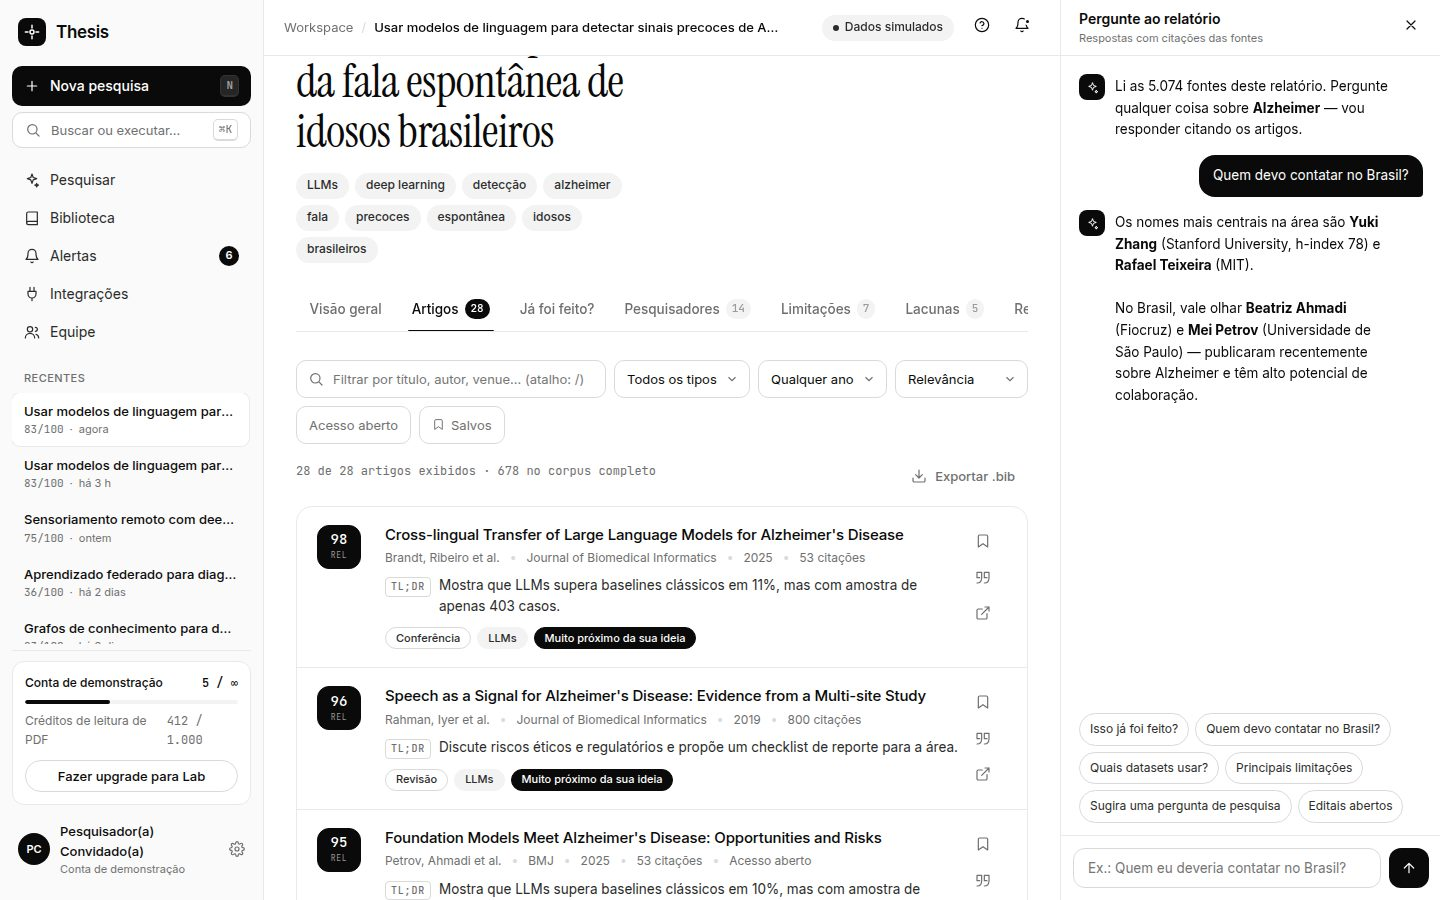
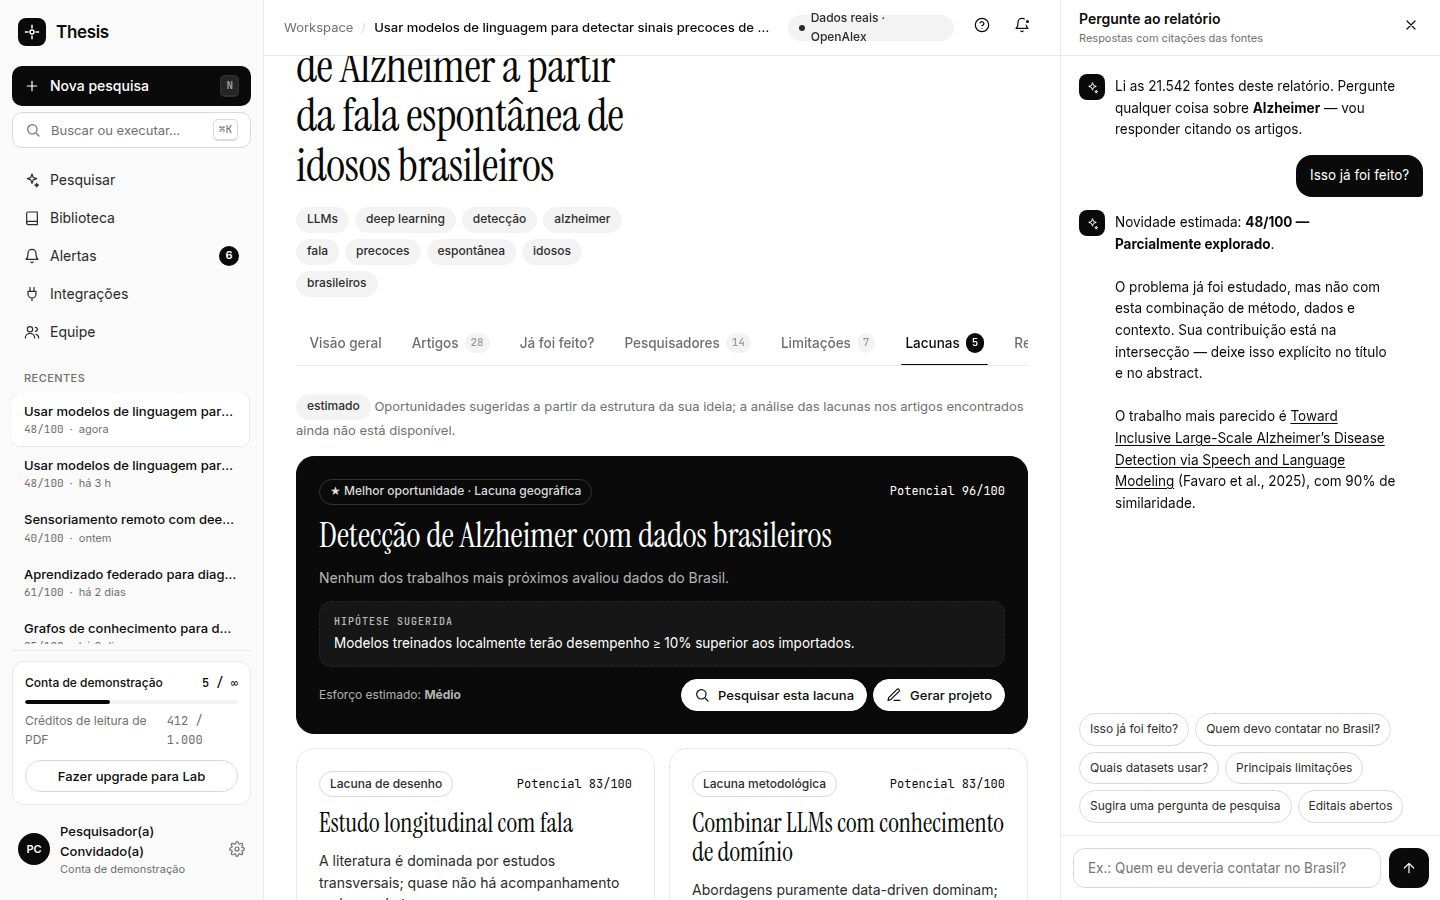
Atualiza a página: dados reais do OpenAlex e novas capturas

diff --git a/index.html b/index.html
@@ -268,12 +268,12 @@
     <p class="lead reveal">Telas reais da plataforma funcionando. Clique em cada seção para ver — e na imagem para ampliar.</p>
     <div class="gallery">
       <div class="g-tabs" id="gTabs" role="tablist">
-        <button class="g-tab on" role="tab" data-img="report" data-cap="Score de novidade de 0 a 100, indicadores da área e uma síntese da IA com citações numeradas e clicáveis."><strong>Visão geral</strong><span>Veredito, números da área e síntese</span></button>
+        <button class="g-tab on" role="tab" data-img="report" data-cap="Score de novidade de 0 a 100, números reais da área vindos do OpenAlex (trabalhos, autores, países, crescimento) e uma síntese com citações clicáveis."><strong>Visão geral</strong><span>Veredito, números da área e síntese</span></button>
         <button class="g-tab" role="tab" data-img="prior" data-cap="A ideia é comparada com os 3 trabalhos mais próximos em 6 dimensões — problema, método, dados, contexto, métrica e desenho — e com patentes."><strong>Já foi feito?</strong><span>Comparação com trabalhos e patentes</span></button>
-        <button class="g-tab" role="tab" data-img="people" data-cap="Rede de colaboração, pesquisadores com h-index e potencial de encaixe, filtro para quem está no Brasil e laboratórios ativos."><strong>Pesquisadores</strong><span>Quem trabalha no tema</span></button>
-        <button class="g-tab" role="tab" data-img="limits" data-cap="As limitações que mais aparecem na literatura, com frequência, severidade e como mitigar — e um checklist de robustez do seu projeto."><strong>Limitações</strong><span>O que costuma dar errado</span></button>
+        <button class="g-tab" role="tab" data-img="people" data-cap="Pesquisadores reais do OpenAlex com h-index, instituição e link para o perfil (ORCID), a rede de coautorias entre eles e as instituições com mais trabalhos no tema."><strong>Pesquisadores</strong><span>Quem trabalha no tema</span></button>
+        <button class="g-tab" role="tab" data-img="limits" data-cap="Limitações recorrentes na pesquisa da área, com severidade e como mitigar, e um checklist de robustez do seu projeto. Nesta versão, são padrões estimados (sinalizados na tela)."><strong>Limitações</strong><span>O que costuma dar errado</span></button>
         <button class="g-tab" role="tab" data-img="gaps" data-cap="Lacunas ranqueadas por potencial, com hipótese sugerida. Um clique transforma a lacuna em nova pesquisa ou em projeto."><strong>Lacunas</strong><span>Onde está a oportunidade</span></button>
-        <button class="g-tab" role="tab" data-img="paper" data-cap="Cada artigo com TL;DR, por que importa para a sua ideia, método, limitações e citação pronta em ABNT, APA ou BibTeX."><strong>Artigos</strong><span>Leitura guiada e citações</span></button>
+        <button class="g-tab" role="tab" data-img="paper" data-cap="Artigos reais com resumo original, por que importam para a sua ideia, link para o artigo (DOI) e citação pronta em ABNT, APA ou BibTeX."><strong>Artigos</strong><span>Leitura guiada e citações</span></button>
         <button class="g-tab" role="tab" data-img="chat" data-cap="Pergunte qualquer coisa ao relatório: quem contatar, quais datasets usar, quais editais estão abertos."><strong>Chat com o relatório</strong><span>Perguntas em linguagem natural</span></button>
         <button class="g-tab" role="tab" data-img="write" data-cap="Revisão de literatura, abstract em inglês, justificativa para edital, e-mail para colaborador e pitch — escritos a partir das fontes do relatório."><strong>Escrever com IA</strong><span>Do relatório ao texto</span></button>
       </div>
@@ -298,7 +298,7 @@
         <p>Em português, numa frase ou num resumo. Dá para refinar com IA (pergunta de pesquisa, hipótese, recorte PICO), ditar ou anexar um rascunho.</p>
         <img src="assets/screens/home.jpg" alt="Tela para descrever a ideia" data-zoom /></div>
       <div class="step reveal"><span class="n">02</span><h3>Os agentes pesquisam</h3>
-        <p>A ideia vira conceitos e consultas; as fontes são buscadas, deduplicadas, ranqueadas e lidas. Você acompanha cada etapa ao vivo.</p>
+        <p>A ideia em português vira uma consulta em inglês; o OpenAlex devolve os trabalhos, autores e números da área, e o GitHub os repositórios. Você acompanha cada etapa.</p>
         <img src="assets/screens/pipeline.jpg" alt="Pipeline de pesquisa em andamento" data-zoom /></div>
       <div class="step reveal"><span class="n">03</span><h3>Receba e use o relatório</h3>
         <p>Navegue pelas seções, salve artigos, monitore o tema com alertas e exporte para PDF, BibTeX, Markdown ou CSV.</p>
@@ -342,7 +342,9 @@
         <div class="arrow"></div>
         <div class="node dark-node"><strong>API — Python + FastAPI</strong><span>Motor de relatórios, auth JWT, chat, escrita, exportações</span><em>:8000</em></div>
         <div class="arrow"></div>
-        <div class="node"><strong>PostgreSQL 16</strong><span>Usuários, relatórios (JSONB), chats, salvos e alertas</span><em>:5432</em></div>
+        <div class="node"><strong>OpenAlex · GitHub</strong><span>Artigos, autores, instituições, publicações por ano e repositórios reais</span><em>APIs</em></div>
+        <div class="arrow"></div>
+        <div class="node"><strong>PostgreSQL 16</strong><span>Usuários, relatórios (JSONB), chats, salvos, alertas e cache das APIs</span><em>:5432</em></div>
       </div>
       <div class="reveal" id="rodar">
         <h3 style="font-size:22px;letter-spacing:-0.02em">Sobe com um comando</h3>
@@ -361,26 +363,28 @@
   <div class="wrap">
     <p class="eyebrow">Estado atual · transparência</p>
     <h2 class="reveal">O que já funciona <em>e o que vem a seguir.</em></h2>
-    <p class="lead reveal">O produto está completo de ponta a ponta. Nesta versão, o conteúdo bibliográfico é gerado por um motor
-      próprio que simula as fontes, para validar a experiência antes de conectar as bases reais.</p>
+    <p class="lead reveal">O produto funciona de ponta a ponta e já usa <strong>dados científicos reais</strong>: artigos, pesquisadores
+      e números da área vêm do OpenAlex. O que ainda é estimado aparece sinalizado na própria interface.</p>
     <div class="status">
       <div class="card reveal"><h3>Funcionando hoje</h3>
         <ul>
           <li>Cadastro, login e conta de demonstração</li>
-          <li>Relatório completo a partir de qualquer ideia em português, salvo no banco</li>
-          <li>Score de novidade e comparação com trabalhos próximos</li>
-          <li>Pesquisadores, limitações, lacunas, datasets e editais</li>
-          <li>Chat com o relatório e “Escrever com IA” (5 modelos de texto)</li>
-          <li>Biblioteca, alertas de monitoramento e exportação .bib / .md / .csv</li>
-          <li>Testes automatizados da API e deploy com Docker</li>
+          <li>Relatório a partir de qualquer ideia em português, salvo no banco</li>
+          <li><strong>Artigos reais</strong> do OpenAlex com resumo original, DOI, citações e acesso aberto</li>
+          <li><strong>Pesquisadores reais</strong> com h-index, instituição, país, ORCID e rede de coautorias</li>
+          <li><strong>Publicações por ano</strong> e crescimento da área, reais</li>
+          <li><strong>Repositórios de código reais</strong> do GitHub</li>
+          <li>Chat com o relatório, “Escrever com IA” (5 modelos de texto), biblioteca, alertas e exportação .bib / .md / .csv</li>
+          <li>Cache das APIs no banco, queda segura para dados simulados sem internet, testes automatizados e deploy com Docker</li>
         </ul></div>
-      <div class="card reveal todo"><h3>Simulado nesta versão</h3>
+      <div class="card reveal todo"><h3>Ainda estimado ou simulado</h3>
         <ul>
-          <li>Artigos, autores e patentes são gerados pelo motor (determinístico: a mesma ideia gera o mesmo relatório)</li>
-          <li>Respostas do chat e textos seguem modelos a partir dos dados do relatório</li>
+          <li>Score de novidade: estimado pelo volume de publicações e pela proximidade dos artigos reais (a comparação por LLM está no roadmap)</li>
+          <li>Limitações, lacunas, patentes e comparação por dimensão</li>
+          <li>Respostas do chat e textos seguem modelos preenchidos com os dados reais do relatório (ainda sem LLM)</li>
           <li>Integrações (Zotero, Overleaf, Notion) e convites ainda não enviam dados</li>
         </ul>
-        <p style="margin:16px 0 0;font-size:14px;color:var(--muted)">O formato do relatório já é o definitivo: trocar o motor por buscas reais não exige mudar o frontend.</p></div>
+        <p style="margin:16px 0 0;font-size:14px;color:var(--muted)">Cada seção estimada leva o selo “estimado” ou “simulado” na interface.</p></div>
     </div>
   </div>
 </section>
@@ -391,10 +395,10 @@
     <p class="eyebrow">Roadmap</p>
     <h2 class="reveal">Próximos <em>passos.</em></h2>
     <div class="road">
-      <div class="card now reveal"><span class="tag">AGORA · MVP</span><h3 style="margin:10px 0 0">Experiência completa</h3>
-        <ul><li>Fluxo ideia → relatório → escrita</li><li>Contas, histórico e alertas</li><li>Deploy em um comando</li></ul></div>
-      <div class="card reveal"><span class="tag">PRÓXIMO</span><h3 style="margin:10px 0 0">Dados reais</h3>
-        <ul><li>OpenAlex e Semantic Scholar para artigos, autores e citações</li><li>arXiv, PubMed e SciELO</li><li>Busca de patentes</li></ul></div>
+      <div class="card now reveal"><span class="tag">AGORA · MVP</span><h3 style="margin:10px 0 0">Produto com dados reais</h3>
+        <ul><li>Fluxo ideia → relatório → escrita</li><li>Artigos, autores e números reais (OpenAlex) e repositórios (GitHub)</li><li>Contas, histórico, alertas e deploy em um comando</li></ul></div>
+      <div class="card reveal"><span class="tag">PRÓXIMO</span><h3 style="margin:10px 0 0">Mais fontes</h3>
+        <ul><li>Semantic Scholar, arXiv, PubMed e SciELO</li><li>Busca de patentes</li><li>Pesquisa em segundo plano com progresso real</li></ul></div>
       <div class="card reveal"><span class="tag">DEPOIS</span><h3 style="margin:10px 0 0">IA ancorada nas fontes</h3>
         <ul><li>LLM para síntese, chat e escrita com citações verificáveis</li><li>Leitura de PDF completo</li><li>Workspaces para laboratórios</li></ul></div>
     </div>
